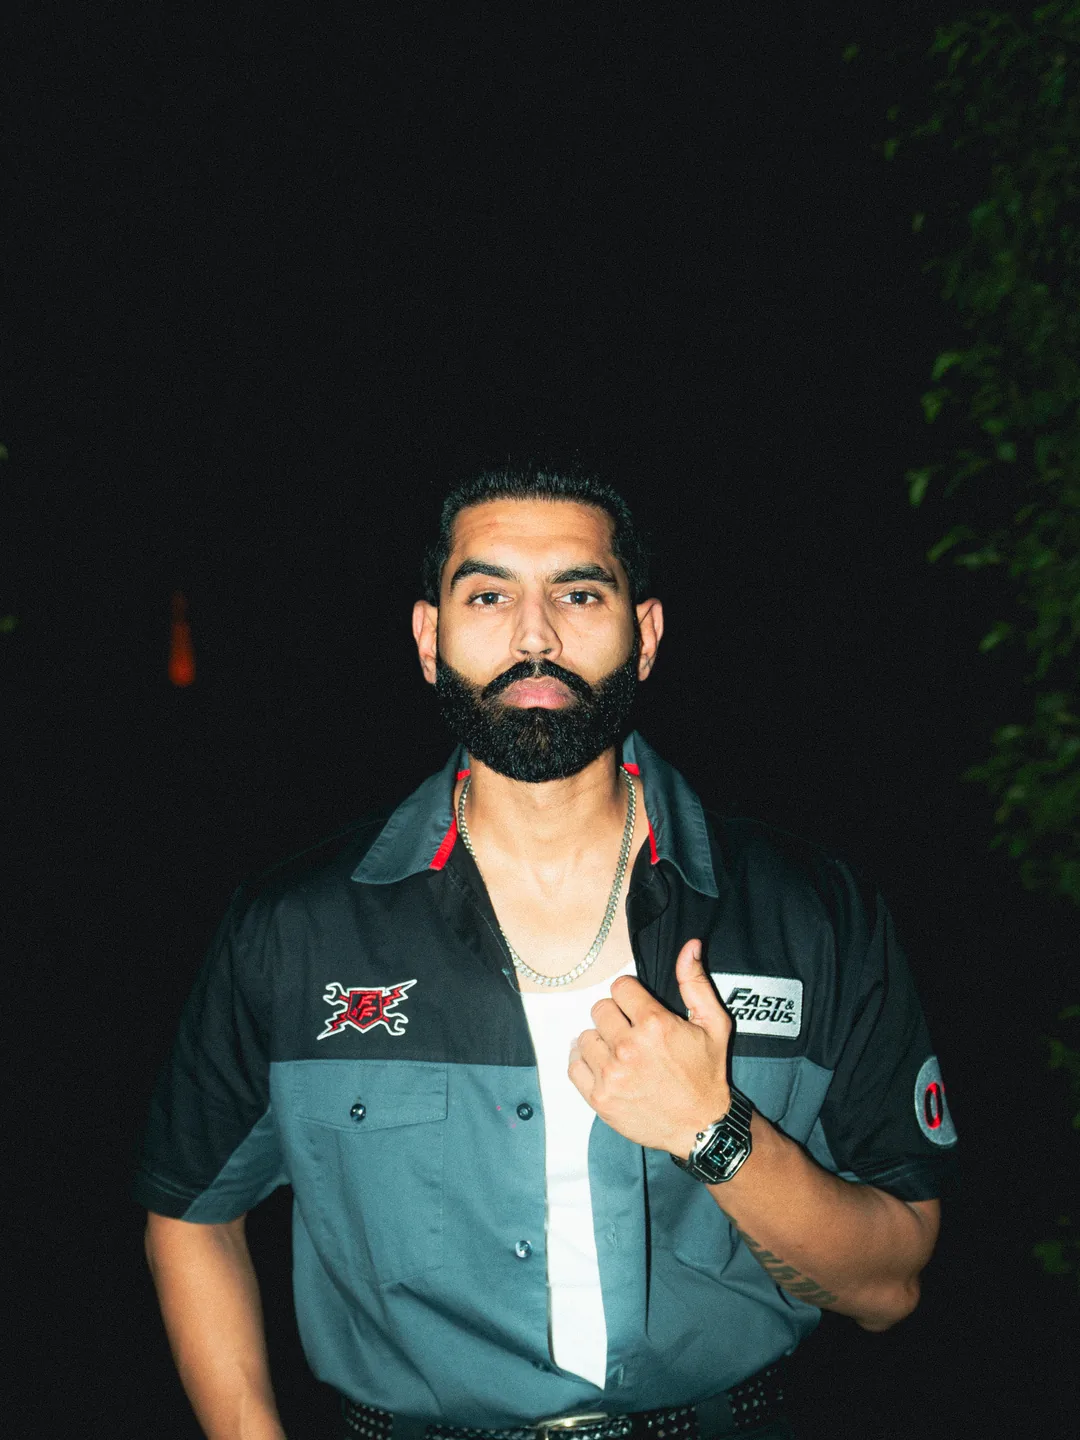
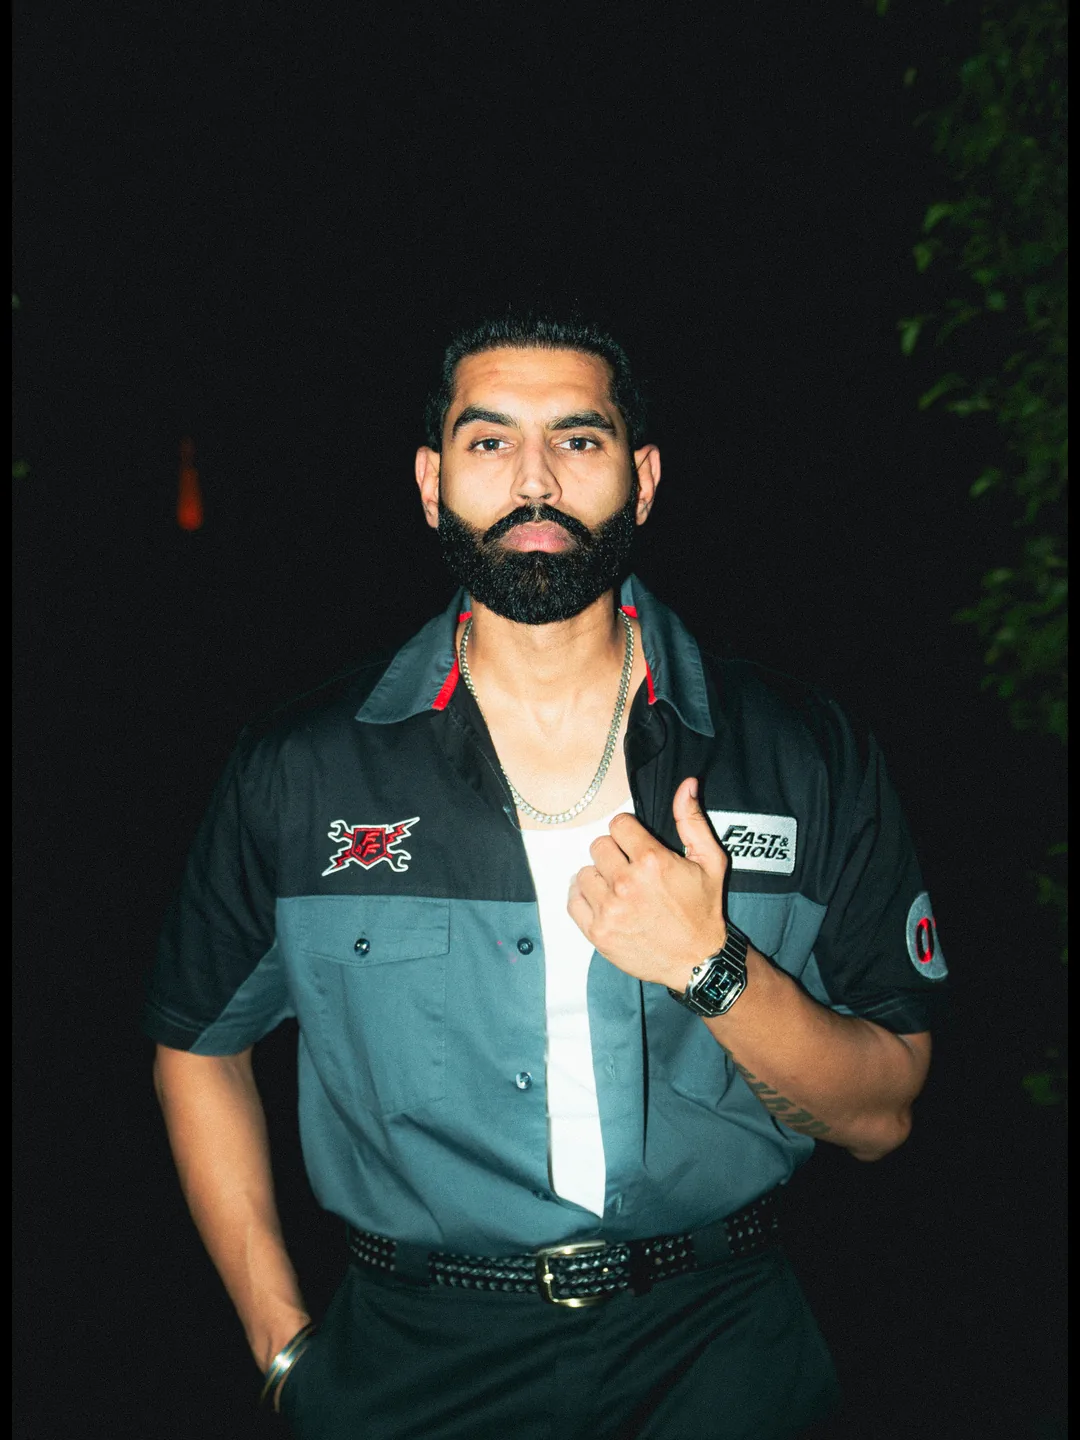
Level the three headliners' heads; one button on the ceremony and pro-night panels
Parmish's portrait is re-cropped so his eyes sit where the other two's do.
His tagline is trimmed to a line so his name sits where theirs does too.

The island map's Fahrenheit and Auriga panels each showed two gold buttons:
the panel's own — "Get your pass", "See the lineup" — and, under it, the
generic "Get your Festival Pass" every competition panel carries. On these
two that was the same button twice, or a second button nobody asked for. Now
there is one.

diff --git a/src/components/IslandMap.tsx b/src/components/IslandMap.tsx
@@ -478,8 +478,11 @@ export default function IslandMap() {
                   )}
 
                   {/* Every entry needs a pass first, so the primary CTA sells the pass;
-                      the chips above take you into a specific event's form. */}
-                  {passLabel.action === 'register' ? (
+                      the chips above take you into a specific event's form. Not on
+                      the two panels that aren't competitions: each of those has
+                      exactly one button already, and a second gold button under
+                      "Get your pass" was the same button twice. */}
+                  {active.noRegister ? null : passLabel.action === 'register' ? (
                     <button
                       onClick={openDelegate}
                       data-cursor="REGISTER"

diff --git a/src/data/artists.ts b/src/data/artists.ts
@@ -85,7 +85,7 @@ export const proNights: ProNight[] = [
     artist: {
       name: 'Parmish Verma',
       role: 'Punjabi Superstar · Singer & Actor',
-      tagline: 'Certified banger machine. Zero skips.',
+      tagline: 'Certified banger machine.',
       blurb:
         'He directed Punjab’s biggest music videos, then decided he’d rather be the one on camera — and never looked back. The whole ground knows every word before the beat even drops.',
       known: ['Gaal Ni Kadni', 'Shada', 'Chal Oye', 'Le Chak Main Aa Gaya'],
